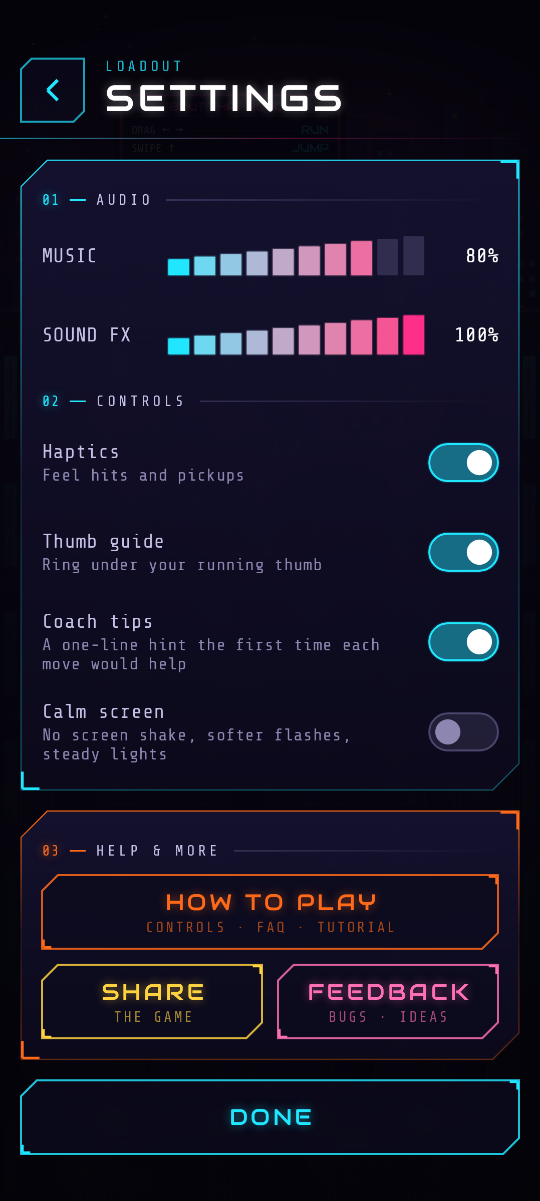
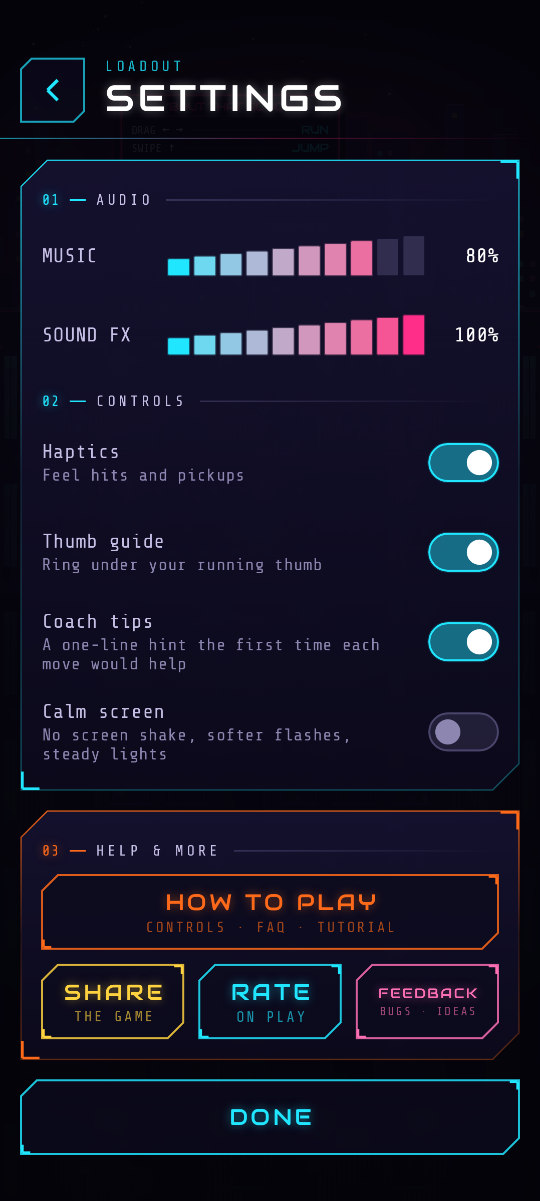
Add a quiet RATE button next to SHARE and FEEDBACK (#41)
RATE opens the game's page in the Play Store app (market://), falls back
to the https listing, and shows the address in a toast when nothing can
open it, same as FEEDBACK. It is only ever a tap: no In-App Review API,
no prompts, no reminders, no new dependencies. TalkBack reads "Rate 'Bout
That Action on Google Play".

Docs (README, AGENTS, PLAY_STORE, PRIVACY links out), the unreleased
changelog and the settings screenshot are updated.

Changed region(s): [[0.4148, 0.801, 0.8889, 0.8626], [0.1185, 0.801, 0.3852, 0.8626]]

diff --git a/app/src/main/java/com/bradflaugher/aboutthataction/ui/Links.kt b/app/src/main/java/com/bradflaugher/aboutthataction/ui/Links.kt
@@ -10,6 +10,8 @@ import androidx.core.net.toUri
 // and the game itself sends nothing.
 
 const val PLAY_STORE_URL = "https://play.google.com/store/apps/details?id=com.bradflaugher.aboutthataction"
+/** The Play Store app's page for the game; [PLAY_STORE_URL] is the browser fallback. */
+const val PLAY_STORE_APP_URI = "market://details?id=com.bradflaugher.aboutthataction"
 const val FEEDBACK_URL = "https://github.com/bradflaugher/bout-that-action/issues/new"
 const val PRIVACY_POLICY_URL = "https://bradflaugher.com/privacy/bout-that-action/"
 
@@ -20,6 +22,21 @@ const val SHARE_APP_TEXT = "'Bout That Action: an endless neon spy caper. Ride t
 internal fun shareApp(context: Context) {
     val send = Intent(Intent.ACTION_SEND).setType("text/plain").putExtra(Intent.EXTRA_TEXT, SHARE_APP_TEXT)
     start(context, Intent.createChooser(send, "Share 'Bout That Action"))
+}
+
+/** What TalkBack reads for the RATE button: the bare word doesn't say where it goes. */
+const val RATE_DESCRIPTION = "Rate 'Bout That Action on Google Play"
+
+/**
+ * The game's page in the Play Store app, or in the browser when there's no Play Store. Only ever
+ * opened from a tap on RATE: the game never asks for a rating.
+ */
+internal fun rateApp(context: Context) {
+    try {
+        context.startActivity(Intent(Intent.ACTION_VIEW, PLAY_STORE_APP_URI.toUri()).addFlags(Intent.FLAG_ACTIVITY_NEW_TASK))
+    } catch (_: ActivityNotFoundException) {
+        openUrl(context, PLAY_STORE_URL)
+    }
 }
 
 /** A new GitHub issue in the browser: bugs, ideas, anything. */

diff --git a/app/src/main/java/com/bradflaugher/aboutthataction/ui/SettingsScreen.kt b/app/src/main/java/com/bradflaugher/aboutthataction/ui/SettingsScreen.kt
@@ -24,6 +24,7 @@ import androidx.compose.ui.graphics.drawOutline
 import androidx.compose.ui.graphics.drawscope.Stroke
 import androidx.compose.ui.platform.LocalContext
 import androidx.compose.ui.semantics.Role
+import androidx.compose.ui.semantics.contentDescription
 import androidx.compose.ui.semantics.semantics
 import androidx.compose.ui.unit.dp
 import androidx.compose.ui.unit.sp
@@ -69,12 +70,19 @@ fun SettingsScreen(
     }
 }
 
-/** SHARE THE GAME and SEND FEEDBACK, side by side: one hands the Play link to the share sheet, one opens a GitHub issue. */
+/**
+ * SHARE, RATE and FEEDBACK, side by side: one hands the Play link to the share sheet, one opens the
+ * game's Play page, one opens a GitHub issue. Only ever on a tap; nothing here prompts or reminds.
+ */
 @Composable
 internal fun MoreLinks() {
     val context = LocalContext.current
     Row(Modifier.fillMaxWidth(), horizontalArrangement = Arrangement.spacedBy(Space.s)) {
         NeonButton("SHARE", Neon.gold, Modifier.weight(1f), caption = "THE GAME", onClick = { shareApp(context) })
+        NeonButton(
+            "RATE", Neon.cyan, Modifier.weight(1f).semantics { contentDescription = RATE_DESCRIPTION },
+            caption = "ON PLAY", onClick = { rateApp(context) },
+        )
         NeonButton("FEEDBACK", Neon.hotPink, Modifier.weight(1f), caption = "BUGS · IDEAS", onClick = { sendFeedback(context) })
     }
 }

diff --git a/app/src/test/java/com/bradflaugher/aboutthataction/ui/MenuSettingsTest.kt b/app/src/test/java/com/bradflaugher/aboutthataction/ui/MenuSettingsTest.kt
@@ -84,13 +84,17 @@ class MenuSettingsTest {
     }
 
     @Test
-    fun theShareAndFeedbackLinksPointAtTheGameAndCarryNoEmail() {
+    fun theShareRateAndFeedbackLinksPointAtTheGameAndCarryNoEmail() {
         assertEquals("https://play.google.com/store/apps/details?id=com.bradflaugher.aboutthataction", PLAY_STORE_URL)
+        // RATE opens the Play Store app on the same page, and falls back to PLAY_STORE_URL.
+        assertEquals("market://details?id=com.bradflaugher.aboutthataction", PLAY_STORE_APP_URI)
+        assertEquals(PLAY_STORE_URL.substringAfter("?"), PLAY_STORE_APP_URI.substringAfter("?"))
+        assertTrue(RATE_DESCRIPTION, RATE_DESCRIPTION.contains("Google Play"))
         assertTrue(SHARE_APP_TEXT, SHARE_APP_TEXT.endsWith(PLAY_STORE_URL))
         assertTrue(SHARE_APP_TEXT.length <= 200)
         assertEquals("https://github.com/bradflaugher/bout-that-action/issues/new", FEEDBACK_URL)
         // No email address anywhere the player can see.
-        for (text in listOf(SHARE_APP_TEXT, FEEDBACK_URL, PRIVACY_POLICY_URL) + FAQ.flatMap { listOf(it.first, it.second) }) {
+        for (text in listOf(SHARE_APP_TEXT, FEEDBACK_URL, PRIVACY_POLICY_URL, PLAY_STORE_APP_URI, RATE_DESCRIPTION) + FAQ.flatMap { listOf(it.first, it.second) }) {
             assertTrue(text, '@' !in text)
         }
     }

diff --git a/app/src/main/java/com/bradflaugher/aboutthataction/ui/HelpScreen.kt b/app/src/main/java/com/bradflaugher/aboutthataction/ui/HelpScreen.kt
@@ -37,7 +37,7 @@ internal val FAQ = listOf(
 
 /**
  * HOW TO PLAY: the controls, a short FAQ, the tutorial again (a CHILL run from the roof with the
- * coach tips on), and the share and feedback links. Reached from settings, the pause menu and
+ * coach tips on), and the share, rate and feedback links. Reached from settings, the pause menu and
  * the title's first-time card.
  */
 @Composable

diff --git a/README.md b/README.md
@@ -306,7 +306,7 @@ and BEST.
     <td align="center" width="20%"><img src="docs/screenshots/menu-gameover.png" alt="Game over with a new deepest floor"><p><em><b>Game over</b>: the depth counts down the building</em></p></td>
   </tr>
   <tr>
-    <td align="center" width="20%"><img src="docs/screenshots/menu-settings.png" alt="Settings: audio, controls, calm screen, help, share and feedback"><p><em><b>Settings</b>: sound, controls, help</em></p></td>
+    <td align="center" width="20%"><img src="docs/screenshots/menu-settings.png" alt="Settings: audio, controls, calm screen, help, share, rate and feedback"><p><em><b>Settings</b>: sound, controls, help</em></p></td>
     <td align="center" width="20%"><img src="docs/screenshots/menu-help.png" alt="How to play: replay the tutorial, the controls and a FAQ"><p><em><b>How to play</b>: controls, FAQ, tutorial</em></p></td>
   </tr>
 </table>
@@ -318,8 +318,9 @@ included), tweak it while the chart redraws, see what it feels like next to the
 presets, and drop in from right there. Your curve is kept when you go back to
 a preset. That's also where you set a seed. Sound and controls live in
 **Settings**, along with HOW TO PLAY, **SHARE** (the Play link, through the
-system share sheet) and **FEEDBACK** (a new GitHub issue in your browser). The
-game itself still has no network access: both just hand a link to another app.
+system share sheet), **RATE** (the game's Play Store page; it never asks) and
+**FEEDBACK** (a new GitHub issue in your browser). The game itself still has
+no network access: all three just hand a link to another app.
 Tap the hero bar to open the picker: swipe (or tap the roster) through all
 four heroes, each on their own stage with their theme playing, and see their
 trait and three hero-only perks. The pick sticks between runs, and the demo

diff --git a/AGENTS.md b/AGENTS.md
@@ -90,7 +90,7 @@ the JVM.
 - `MainActivity.kt`, `ui/` — Compose menus (title, custom run, challenges board
   and briefing, settings, HOW TO PLAY (`HelpScreen.kt`: controls, FAQ, replay
   tutorial, and the title's one-time FIRST TIME HERE? card), pause, game
-  over), `Links.kt` (share the game, feedback and the privacy policy: intents
+  over), `Links.kt` (share the game, rate it, feedback and the privacy policy: intents
   only, never network), `Settings.kt` (prefs, seeds, the challenge log: first-clear day and best progress per id), `Haptics.kt`.
 - `app/src/test/` — JVM tests: `engine/` (mechanics, level generation,
   fuzzing, a heuristic bot that plays full runs per preset), `input/`
@@ -113,8 +113,9 @@ the JVM.
   changes and keep the difficulty ordering CHILL < AGENT < BRUTAL <
   STRAIGHT_TO_HELL.
 - Fun, not compulsion: no streaks, daily rewards, timers or "come back"
-  nags, and no rating prompts or "please share" reminders (SHARE and FEEDBACK
-  sit quietly in Settings and HOW TO PLAY). Text is short, silly and family-friendly.
+  nags, and no rating prompts or "please share" reminders (SHARE, RATE and
+  FEEDBACK sit quietly in Settings and HOW TO PLAY; RATE just opens the Play
+  page, never the In-App Review API). Text is short, silly and family-friendly.
 - The daily challenge is a shared pick, nothing more: the same challenge for
   everyone on the same local day (the date is passed in; no clock in
   `engine/`), a deterministic stand-in if you cleared it on an earlier day.

diff --git a/docs/PLAY_STORE.md b/docs/PLAY_STORE.md
@@ -48,7 +48,11 @@ one and is always a valid next upload.
    must then run a **Closed test with at least 12 opted-in testers for 14
    days in a row** before it can apply for production access; an
    organization account can go straight to production.
-7. **Pre-launch report.** Play runs every upload on a handful of real devices
+7. **Ratings.** RATE (next to SHARE and FEEDBACK in Settings and HOW TO
+   PLAY) opens `market://details?id=com.bradflaugher.aboutthataction`, or the
+   listing's web page when there's no Play Store app. It's only ever a tap:
+   no In-App Review API, no rating prompts or reminders.
+8. **Pre-launch report.** Play runs every upload on a handful of real devices
    and flags crashes, accessibility and layout issues. Check it before each
    promotion to production.
 

diff --git a/docs/PRIVACY.md b/docs/PRIVACY.md
@@ -11,8 +11,10 @@
   them. They aren't backed up to the cloud.
 - **Permissions:** vibration only, for haptics.
 - **Links out:** SHARE hands the game's Play Store link to your phone's share
-  sheet, and FEEDBACK and PRIVACY POLICY open a page in your browser. Those
-  apps take it from there; the game itself still sends nothing.
+  sheet, RATE opens the game's page in the Play Store app (or your browser),
+  and FEEDBACK and PRIVACY POLICY open a page in your browser. Those apps take
+  it from there; the game itself still sends nothing, and never asks you for
+  a rating.
 - **Children:** the game collects nothing from anyone, children included.
 
 If this ever changes, this page will change first.
